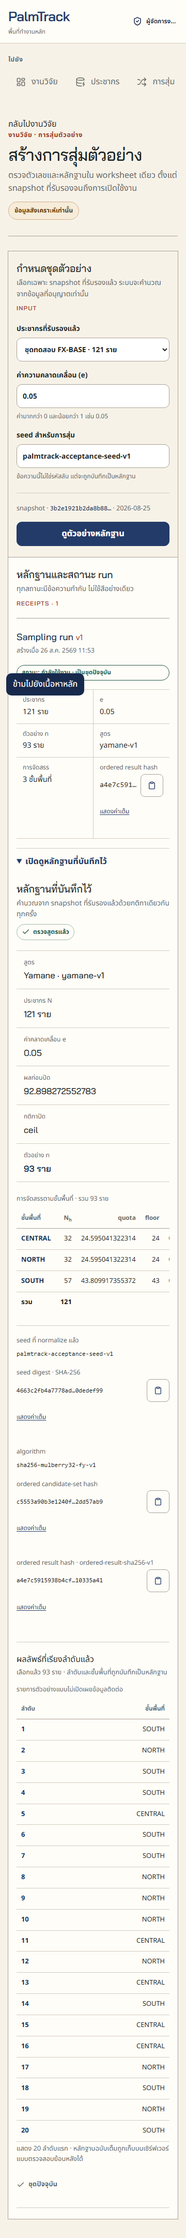
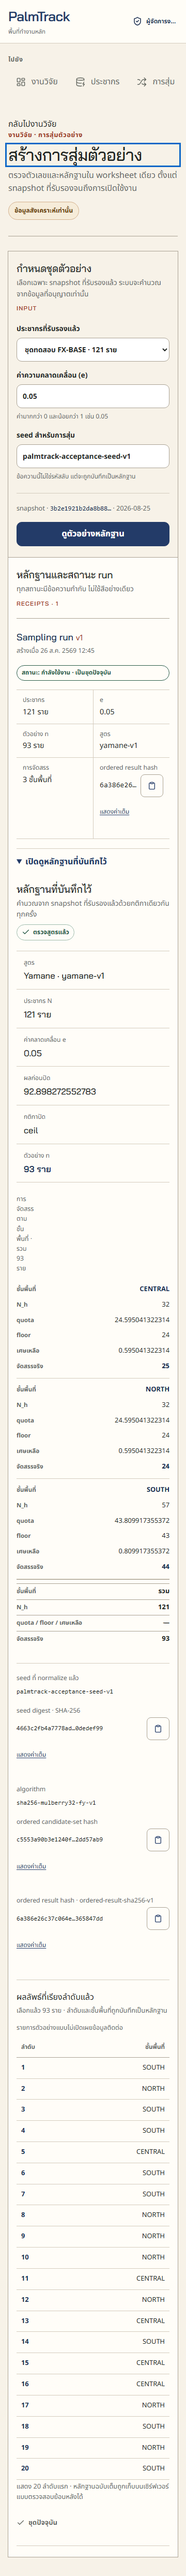
test: harden sampling acceptance evidence

diff --git a/e2e/sampling.spec.ts b/e2e/sampling.spec.ts
@@ -23,28 +23,86 @@ test.describe("sampling acceptance", () => {
 
     await page.getByRole("button", { name: "บันทึกฉบับร่าง" }).click();
     await expect(page.getByText("บันทึกฉบับร่างแล้ว · รอการล็อก")).toBeVisible();
+    const draftReceipt = page.getByTestId("sampling-run-receipt").filter({ has: page.locator('[data-status="draft"]') }).last();
+    const createdRunId = await draftReceipt.getAttribute("data-run-id");
+    expect(createdRunId).toMatch(/^[0-9a-f-]{36}$/iu);
+    const createdReceipt = page.locator(`[data-testid="sampling-run-receipt"][data-run-id="${createdRunId}"]`);
 
-    await page.getByRole("button", { name: "ล็อกหลักฐาน" }).click();
+    await createdReceipt.getByRole("button", { name: "ล็อกหลักฐาน" }).click();
     const lockDialog = page.getByRole("dialog", { name: "ยืนยันการล็อกหลักฐาน" });
     await expect(lockDialog).toBeVisible();
     await expect(lockDialog.getByRole("button", { name: "กลับไปตรวจสอบ" })).toBeFocused();
     await lockDialog.getByRole("button", { name: "ล็อกหลักฐาน" }).click();
     await expect(page.getByText("ล็อกหลักฐานสำเร็จ · run รอการเปิดใช้งาน")).toBeVisible();
-    await expect(page.getByText("สถานะ: ล็อกแล้ว · แก้ไขไม่ได้")).toBeVisible();
+    await expect(createdReceipt.locator('[data-status="locked"]')).toBeVisible();
 
-    await page.getByRole("button", { name: "เปิดใช้งาน" }).click();
+    await createdReceipt.getByRole("button", { name: "เปิดใช้งาน" }).click();
     const activateDialog = page.getByRole("dialog", { name: "ยืนยันการเปิดใช้งาน" });
     await expect(activateDialog).toBeVisible();
     await expect(activateDialog.getByRole("button", { name: "กลับไปตรวจสอบ" })).toBeFocused();
     await activateDialog.getByRole("button", { name: "เปิดใช้งาน" }).click();
     await expect(page.getByText("เปิดใช้งานสำเร็จ · run นี้เป็นชุดปัจจุบัน")).toBeVisible();
-    await expect(page.getByText("สถานะ: กำลังใช้งาน · เป็นชุดปัจจุบัน")).toBeVisible();
+    await expect(createdReceipt.locator('[data-status="active"]')).toBeVisible();
+
+    const evaluatorContext = await page.context().browser()!.newContext({ viewport: page.viewportSize() });
+    const evaluatorPage = await evaluatorContext.newPage();
+    await signInAs(evaluatorPage, "evaluator_readonly");
+    await evaluatorPage.goto("/app/research/sampling");
+    await expect(evaluatorPage.getByRole("heading", { name: "สร้างการสุ่มตัวอย่าง" })).toBeVisible();
+    await expect(evaluatorPage.getByText("บัญชีนี้อ่านใบเสร็จหลักฐานได้เท่านั้น · ไม่มีฟอร์มหรือปุ่มเปลี่ยนสถานะ")).toBeVisible();
+    const evaluatorReceipt = evaluatorPage.locator(`[data-testid="sampling-run-receipt"][data-run-id="${createdRunId}"]`);
+    await expect(evaluatorReceipt.locator('[data-status="active"]')).toBeVisible();
+    await expect(evaluatorReceipt).toContainText("121 ราย");
+    await expect(evaluatorReceipt).toContainText("93 ราย");
+    await expect(evaluatorPage.getByLabel("ประชากรที่รับรองแล้ว")).toHaveCount(0);
+    await expect(evaluatorPage.getByRole("button", { name: /ดูตัวอย่างหลักฐาน|บันทึกฉบับร่าง|ล็อกหลักฐาน|เปิดใช้งาน/iu })).toHaveCount(0);
+    await expect(evaluatorPage.getByText("หลักฐานที่บันทึกไว้")).toHaveCount(0);
+    await evaluatorContext.close();
 
     await page.reload();
-    await expect(page.getByText("สถานะ: กำลังใช้งาน · เป็นชุดปัจจุบัน")).toBeVisible();
-    await expect(page.getByRole("heading", { name: "หลักฐานที่บันทึกไว้" }).first()).toBeVisible();
+    const reloadedReceipt = page.locator(`[data-testid="sampling-run-receipt"][data-run-id="${createdRunId}"]`);
+    await expect(reloadedReceipt.locator('[data-status="active"]')).toBeVisible();
+    await expect(reloadedReceipt).toContainText("121 ราย");
+    await expect(reloadedReceipt).toContainText("0.05");
+    await expect(reloadedReceipt).toContainText("93 ราย");
+    await expect(reloadedReceipt).toContainText("palmtrack-acceptance-seed-v1");
+    await expect(reloadedReceipt).toContainText("sha256-mulberry32-fy-v1");
+    await expect(reloadedReceipt).toContainText("ordered result hash");
+    await expect(reloadedReceipt.getByRole("heading", { name: "หลักฐานที่บันทึกไว้" })).toBeVisible();
     await expect(page.getByText("ข้อมูลสังเคราะห์เท่านั้น")).toBeVisible();
     await expect(page.evaluate(() => document.documentElement.scrollWidth <= document.documentElement.clientWidth)).resolves.toBe(true);
+
+    const mainHeading = page.getByRole("heading", { name: "สร้างการสุ่มตัวอย่าง" });
+    await mainHeading.focus();
+    await expect(mainHeading).toBeFocused();
+    const skipLink = page.locator('a[href="#main-content"]');
+    const skipLinkBox = await skipLink.evaluate((element) => {
+      const rect = element.getBoundingClientRect();
+      const style = getComputedStyle(element);
+      return { bottom: rect.bottom, transform: style.transform, visibility: style.visibility, opacity: style.opacity, pointerEvents: style.pointerEvents };
+    });
+    expect(skipLinkBox.bottom).toBeLessThanOrEqual(0);
+    expect(skipLinkBox.transform).not.toBe("none");
+    expect(skipLinkBox.visibility).toBe("hidden");
+    expect(skipLinkBox.opacity).toBe("0");
+    expect(skipLinkBox.pointerEvents).toBe("none");
+
+    if (testInfo.project.name === "mobile") {
+      const allocationRegion = page.getByRole("region", { name: "ตารางการจัดสรรตามชั้นพื้นที่" }).last();
+      const firstAllocationRow = allocationRegion.locator("tbody tr").first();
+      await expect(firstAllocationRow.locator('[data-label="เศษเหลือ"]')).toBeVisible();
+      await expect(firstAllocationRow.locator('[data-label="จัดสรรจริง"]')).toBeVisible();
+      await expect(allocationRegion.locator('tfoot [data-label="จัดสรรจริง"]')).toHaveText("93");
+      const allocationLabels = await firstAllocationRow.locator("[data-label]").evaluateAll((cells) => cells.map((cell) => ({
+        label: getComputedStyle(cell, "::before").content.replace(/^"|"$/gu, ""),
+        right: cell.getBoundingClientRect().right,
+        left: cell.getBoundingClientRect().left,
+      })));
+      expect(allocationLabels.map(({ label }) => label)).toEqual(["ชั้นพื้นที่", "N_h", "quota", "floor", "เศษเหลือ", "จัดสรรจริง"]);
+      const viewportWidth = page.viewportSize()?.width ?? 360;
+      expect(allocationLabels.every(({ left, right }) => left >= 0 && right <= viewportWidth)).toBe(true);
+      await expect(allocationRegion).toHaveJSProperty("scrollWidth", await allocationRegion.evaluate((element) => element.clientWidth));
+    }
 
     if (process.env.PALMTRACK_E2E_CAPTURE_EVIDENCE === "1") {
       await page.screenshot({
@@ -64,15 +122,4 @@ test.describe("sampling acceptance", () => {
     });
   }
 
-  test("[E2E-03][RLS-09] evaluator receives aggregate-only sampling receipts", async ({ page }) => {
-    await signInAs(page, "evaluator_readonly");
-    await page.goto("/app/research/sampling");
-    await expect(page.getByRole("heading", { name: "สร้างการสุ่มตัวอย่าง" })).toBeVisible();
-    await expect(page.getByText("บัญชีนี้อ่านใบเสร็จหลักฐานได้เท่านั้น · ไม่มีฟอร์มหรือปุ่มเปลี่ยนสถานะ")).toBeVisible();
-    await expect(page.getByText("สถานะ: กำลังใช้งาน · เป็นชุดปัจจุบัน")).toBeVisible();
-    await expect(page.getByLabel("ประชากรที่รับรองแล้ว")).toHaveCount(0);
-    await expect(page.getByRole("button", { name: /ดูตัวอย่างหลักฐาน|บันทึกฉบับร่าง|ล็อกหลักฐาน|เปิดใช้งาน/iu })).toHaveCount(0);
-    await expect(page.getByText("หลักฐานที่บันทึกไว้")).toHaveCount(0);
-    await expect(page.evaluate(() => document.documentElement.scrollWidth <= document.documentElement.clientWidth)).resolves.toBe(true);
-  });
 });

diff --git a/src/modules/research/sampling/ui/sampling-workbench.tsx b/src/modules/research/sampling/ui/sampling-workbench.tsx
@@ -105,8 +105,8 @@ function EvidencePreview({ evidence, context = "preview", title, titleId = "samp
         <table className={styles.evidenceTable}>
           <caption>การจัดสรรตามชั้นพื้นที่ · รวม {number(evidence.targetN, 0)} ราย</caption>
           <thead><tr><th scope="col">ชั้นพื้นที่</th><th scope="col">N<sub>h</sub></th><th scope="col">quota</th><th scope="col">floor</th><th scope="col">เศษเหลือ</th><th scope="col">จัดสรรจริง</th></tr></thead>
-          <tbody>{evidence.allocationRows.map((row) => <tr key={row.stratumCode}><th scope="row">{row.stratumCode}</th><td>{number(row.eligibleCount, 0)}</td><td>{number(row.quota)}</td><td>{number(row.floorAllocation, 0)}</td><td>{number(row.remainder)}</td><td className={styles.emphasis}>{number(row.finalAllocation, 0)}</td></tr>)}</tbody>
-          <tfoot><tr><th scope="row">รวม</th><td>{number(evidence.populationSize, 0)}</td><td colSpan={3}>—</td><td>{number(evidence.targetN, 0)}</td></tr></tfoot>
+          <tbody>{evidence.allocationRows.map((row) => <tr key={row.stratumCode}><th scope="row" data-label="ชั้นพื้นที่">{row.stratumCode}</th><td data-label="N_h">{number(row.eligibleCount, 0)}</td><td data-label="quota">{number(row.quota)}</td><td data-label="floor">{number(row.floorAllocation, 0)}</td><td data-label="เศษเหลือ">{number(row.remainder)}</td><td data-label="จัดสรรจริง" className={styles.emphasis}>{number(row.finalAllocation, 0)}</td></tr>)}</tbody>
+          <tfoot><tr><th scope="row" data-label="ชั้นพื้นที่">รวม</th><td data-label="N_h">{number(evidence.populationSize, 0)}</td><td data-label="quota / floor / เศษเหลือ" colSpan={3}>—</td><td data-label="จัดสรรจริง">{number(evidence.targetN, 0)}</td></tr></tfoot>
         </table>
       </div>
       <dl className={styles.receiptGrid}>
@@ -185,7 +185,7 @@ function RunReceipt({ run, detail, isLatest, focusOnSuccess, onConfirm, disabled
     if (focusOnSuccess) receiptHeadingRef.current?.focus();
   }, [focusOnSuccess]);
   return (
-    <li className={styles.runReceipt}>
+    <li className={styles.runReceipt} data-testid="sampling-run-receipt" data-run-id={run.id} data-run-version={run.version}>
       <div className={styles.runHeader}><div><h3 ref={receiptHeadingRef} tabIndex={-1}>Sampling run <span>v{run.version}</span></h3><p>สร้างเมื่อ {thaiDate(run.createdAt)}</p></div><span className={`${styles.status} ${statusClass}`} data-status={run.status}>สถานะ: {statusLabels[run.status]}</span></div>
       <dl className={styles.runFacts}><div><dt>ประชากร</dt><dd>{number(run.populationSize, 0)} ราย</dd></div><div><dt>e</dt><dd>{number(run.marginOfError)}</dd></div><div><dt>ตัวอย่าง n</dt><dd>{number(run.targetN, 0)} ราย</dd></div><div><dt>สูตร</dt><dd>{run.formulaVersion}</dd></div><div><dt>การจัดสรร</dt><dd>{run.allocationEvidence.length} ชั้นพื้นที่</dd></div><div><dt>ordered result hash</dt><dd><DigestValue label="ordered result hash" value={run.orderedResultHash} /></dd></div></dl>
       {detailEvidence && <details className={styles.persistedEvidence} open={isLatest || run.status === "active"}><summary>เปิดดูหลักฐานที่บันทึกไว้</summary><EvidencePreview context="persisted" evidence={detailEvidence} titleId={`sampling-run-evidence-${run.id}`} /></details>}
@@ -255,7 +255,7 @@ export function SamplingWorkbench({ initialImports, initialRuns, initialRunDetai
   const capturePreviewInput = (event: FormEvent<HTMLFormElement>) => { setValidationAttempted(true); if (Object.keys(errors).length > 0) { event.preventDefault(); return; } setSubmittedPreview(snapshotFromForm(new FormData(event.currentTarget))); };
   return (
     <section className={styles.workbench} aria-labelledby="sampling-workbench-title">
-      <header className={styles.pageHeading}><div><p className={styles.path}>งานวิจัย · การสุ่มตัวอย่าง</p><h1 id="sampling-workbench-title">สร้างการสุ่มตัวอย่าง</h1><p className={styles.intro}>ตรวจตัวเลขและหลักฐานใน worksheet เดียว ตั้งแต่ snapshot ที่รับรองจนถึงการเปิดใช้งาน</p></div><span className={styles.syntheticBoundary}>ข้อมูลสังเคราะห์เท่านั้น</span></header>
+      <header className={styles.pageHeading}><div><p className={styles.path}>งานวิจัย · การสุ่มตัวอย่าง</p><h1 id="sampling-workbench-title" tabIndex={-1}>สร้างการสุ่มตัวอย่าง</h1><p className={styles.intro}>ตรวจตัวเลขและหลักฐานใน worksheet เดียว ตั้งแต่ snapshot ที่รับรองจนถึงการเปิดใช้งาน</p></div><span className={styles.syntheticBoundary}>ข้อมูลสังเคราะห์เท่านั้น</span></header>
       {canMutate && acceptedImports.length === 0 && <section className={styles.emptyState} aria-labelledby="sampling-empty-title"><h2 id="sampling-empty-title">ยังไม่มี snapshot ที่รับรอง</h2><p>ต้องยืนยัน snapshot จากงานประชากรก่อน จึงจะคำนวณหลักฐานการสุ่มได้</p><Link className={styles.secondaryButton} href="/app/research/population">ไปงานประชากร</Link></section>}
       {!canMutate && <p className={styles.readonlyIntro} role="status">บัญชีนี้อ่านใบเสร็จหลักฐานได้เท่านั้น · ไม่มีฟอร์มหรือปุ่มเปลี่ยนสถานะ</p>}
       <div className={styles.worksheet} aria-hidden={modalOpen ? "true" : undefined} inert={modalOpen}>

diff --git a/src/modules/research/sampling/ui/sampling-workbench.test.tsx b/src/modules/research/sampling/ui/sampling-workbench.test.tsx
@@ -125,6 +125,7 @@ describe("SamplingWorkbench", () => {
     renderWorkbench();
 
     expect(screen.getByRole("heading", { name: "สร้างการสุ่มตัวอย่าง" })).toBeVisible();
+    expect(screen.getByRole("heading", { name: "สร้างการสุ่มตัวอย่าง" })).toHaveAttribute("tabindex", "-1");
     expect(screen.getByText("ข้อมูลสังเคราะห์เท่านั้น")).toBeVisible();
     expect(screen.getByLabelText("ประชากรที่รับรองแล้ว")).toHaveValue(importId);
     expect(screen.getByLabelText(/ค่าความคลาดเคลื่อน \(e\)/u)).toHaveValue(0.05);
@@ -152,6 +153,29 @@ describe("SamplingWorkbench", () => {
     expect((submitted as FormData | null)?.get("populationImportId")).toBe(importId);
     expect((submitted as FormData | null)?.get("marginOfError")).toBe("0.05");
     expect((submitted as FormData | null)?.get("seedText")).toBe("palmtrack-acceptance-seed-v1");
+  });
+
+  it("exposes all allocation fields as labeled cells and a stable receipt hook", async () => {
+    renderWorkbench({
+      initialRuns: [initialRun],
+      previewAction: vi.fn(async (): Promise<SamplingPreviewState> => ({ status: "ready", evidence })),
+    });
+
+    const receipt = screen.getByTestId("sampling-run-receipt");
+    expect(receipt).toHaveAttribute("data-run-id", runId);
+    expect(receipt).toHaveAttribute("data-run-version", "1");
+
+    fireEvent.click(screen.getByRole("button", { name: "ดูตัวอย่างหลักฐาน" }));
+    await waitFor(() => expect(screen.getByRole("heading", { name: "ผลคำนวณเบื้องต้น" })).toBeVisible(), { timeout: 5000 });
+
+    const previewRegion = screen.getByRole("region", { name: "ผลคำนวณเบื้องต้น" });
+    const allocationTable = within(previewRegion)
+      .getByRole("region", { name: "ตารางการจัดสรรตามชั้นพื้นที่" })
+      .querySelector("table");
+    expect(allocationTable).not.toBeNull();
+    const firstRowLabels = Array.from(allocationTable!.querySelectorAll("tbody tr:first-child [data-label]"), (cell) => cell.getAttribute("data-label"));
+    expect(firstRowLabels).toEqual(["ชั้นพื้นที่", "N_h", "quota", "floor", "เศษเหลือ", "จัดสรรจริง"]);
+    expect(allocationTable!.querySelector('tfoot [data-label="จัดสรรจริง"]')).toHaveTextContent("93");
   });
 
   it("shows safe validation copy and keeps full digests available as text", async () => {

diff --git a/src/modules/research/sampling/ui/sampling-workbench.module.css b/src/modules/research/sampling/ui/sampling-workbench.module.css
@@ -136,6 +136,15 @@
   .formula > div { border-left: 0 !important; }
   .formula > div + div { border-top: 1px solid var(--line); }
   .receiptGrid { grid-template-columns: 1fr; }
+  .tableWrap { overflow-x: visible; }
+  .evidenceTable { display: block; width: 100%; }
+  .evidenceTable thead { position: absolute; width: 1px; height: 1px; padding: 0; margin: -1px; overflow: hidden; clip: rect(0, 0, 0, 0); white-space: nowrap; border: 0; }
+  .evidenceTable tbody, .evidenceTable tfoot { display: block; }
+  .evidenceTable tbody tr, .evidenceTable tfoot tr { display: grid; grid-template-columns: minmax(0, 1fr); padding: 7px 0; border-bottom: 1px solid var(--line); }
+  .evidenceTable tbody th, .evidenceTable tbody td, .evidenceTable tfoot th, .evidenceTable tfoot td { display: flex; width: 100%; min-width: 0; align-items: baseline; justify-content: space-between; gap: 14px; padding: 5px 0; border-bottom: 0; text-align: right !important; white-space: normal; overflow-wrap: anywhere; }
+  .evidenceTable tbody th::before, .evidenceTable tbody td::before, .evidenceTable tfoot th::before, .evidenceTable tfoot td::before { flex: 1 1 auto; color: var(--muted); content: attr(data-label); font-size: .72rem; font-weight: 700; text-align: left; }
+  .evidenceTable tfoot tr { border-top: 1px solid var(--line-strong); border-bottom: 0; }
+  .evidenceTable tfoot th, .evidenceTable tfoot td { font-weight: 750; }
   .runFacts { grid-template-columns: 1fr 1fr; }
   .runFacts > div { border-left: 0 !important; }
   .runFacts > div + div { border-left: 1px solid var(--line) !important; }

diff --git a/src/modules/identity/ui/protected-shell.module.css b/src/modules/identity/ui/protected-shell.module.css
@@ -13,10 +13,16 @@
   border-radius: 10px;
   background: var(--indigo-deep);
   color: white;
+  visibility: hidden;
+  opacity: 0;
+  pointer-events: none;
   transform: translateY(-180%);
 }
 
 .skipLink:focus-visible {
+  visibility: visible;
+  opacity: 1;
+  pointer-events: auto;
   transform: translateY(0);
 }
 

diff --git a/playwright.config.ts b/playwright.config.ts
@@ -20,7 +20,7 @@ const e2eEnvironment = Object.fromEntries(
 
 export default defineConfig({
   testDir: "./e2e",
-  testIgnore: "**/population-import.spec.ts",
+  testIgnore: ["**/population-import.spec.ts", "**/sampling.spec.ts"],
   fullyParallel: true,
   forbidOnly: true,
   retries: 0,

diff --git a/docs/TRACEABILITY_MATRIX.md b/docs/TRACEABILITY_MATRIX.md
@@ -62,10 +62,10 @@ Evidence นี้เป็น tracer-bullet progress ไม่ใช่ FR-02/V
 
 | Requirement | Implemented evidence in this increment | Status boundary |
 |---|---|---|
-| FR-03 | synthetic `FX-BASE` fixture with 121 eligible members across `NORTH`, `CENTRAL`, `SOUTH`; authenticated manager preview shows Yamane `N=121/e=0.05/n=93`, largest-remainder rows, normalized seed, algorithm and digest evidence; manager completes draft → locked → active and reloads the persisted receipt | focused local `e2e/sampling.spec.ts` passes in mobile and desktop projects; this task does not claim hosted migration or full unit/database/build verification |
-| NFR-01 | collector and farmer receive non-enumerating forbidden state; evaluator receives summary/aggregate receipt only and no mutation form or transition controls | focused local role negatives pass; this is not the complete V1 RLS negative matrix |
-| NFR-04 | persisted sampling receipt includes seed, candidate/result digest and ordered stratum evidence for the active run | focused E2E confirms the visible receipt after reload; deterministic unit/database evidence remains separately bounded |
-| NFR-05 | Thai authenticated sampling page captured at 360×800 and 1365×900 with visible synthetic-only boundary | [sampling screenshots](assets/sampling/README.md) and focused local browser run pass; field usability sign-off remains pending |
-| NFR-06 | manager confirmation dialogs receive focus, the primary journey completes, and both configured viewports have no horizontal overflow | focused local assertions pass; no axe scan was added to this sampling-only run |
+| FR-03 | synthetic `FX-BASE` fixture with 121 eligible members across `NORTH`, `CENTRAL`, `SOUTH`; authenticated manager preview shows Yamane `N=121/e=0.05/n=93`, largest-remainder rows, normalized seed, algorithm and digest evidence; manager completes draft → locked → active and reloads the created receipt | focused local `e2e/sampling.spec.ts` passes 6/6 across mobile and desktop projects, scoping lifecycle assertions by run ID and checking exact receipt values; this task does not claim hosted migration or full unit/database/build verification |
+| NFR-01 | collector and farmer receive non-enumerating forbidden state; evaluator receives the created run's summary/aggregate receipt only and no mutation form or transition controls | focused local role negatives pass independently and evaluator checks run inside the manager lifecycle; this is not the complete V1 RLS negative matrix |
+| NFR-04 | persisted sampling receipt includes seed, candidate/result digest and ordered stratum evidence for the active run | focused E2E confirms exact `N`, `e`, `n`, seed, algorithm, digest and active status after reload; deterministic unit/database evidence remains separately bounded |
+| NFR-05 | Thai authenticated sampling page captured at 360×800 and 1365×900 with visible synthetic-only boundary and six labeled mobile allocation fields | [sampling screenshots](assets/sampling/README.md) and focused local browser run pass; field usability sign-off remains pending |
+| NFR-06 | manager confirmation dialogs receive focus, the primary journey completes, both configured viewports have no document/table horizontal overflow, and the unfocused skip link is hidden after heading focus | focused local assertions pass; no axe scan was added to this sampling-only run |
 
 หลักฐานนี้เป็น local synthetic acceptance evidence ของ sampling slice ไม่ใช่ V1 acceptance sign-off และไม่อนุญาตให้สรุป hosted migration, real-data readiness หรือ unexecuted full-suite checks

diff --git a/docs/assets/sampling/README.md b/docs/assets/sampling/README.md
@@ -9,14 +9,14 @@
 - Margin of error: `e=0.05`
 - Yamane result: `N=121`, unrounded `92.898272552783`, `ceil n=93`
 - Strata: `NORTH=32`, `CENTRAL=32`, `SOUTH=57`; largest-remainder allocation totals 93
-- The authenticated manager journey imports/accepts the snapshot, previews, creates a draft, locks, activates, reloads the receipt, and checks focus/no-overflow and role negatives.
+- The authenticated manager journey imports/accepts the snapshot, previews, creates a draft, locks, activates, reloads the created receipt, and verifies exact `N=121`, `e=0.05`, `n=93`, seed, algorithm, digest and active status. The same lifecycle checks evaluator aggregate-only access; collector/farmer negatives are independent tests.
 
 ## Captures
 
 - [Desktop 1365×900](desktop.png)
 - [Mobile 360×800](mobile.png)
 
-ภาพเป็น full-page captures ของหน้า sampling ที่ผ่านการยืนยันตัวตนจริงใน local E2E; ป้าย `ข้อมูลสังเคราะห์เท่านั้น` ต้องมองเห็นในทั้งสองภาพ ภาพ desktop แสดง receipt สังเคราะห์ก่อนหน้าด้วยเพราะ Playwright projects ใช้ local reset เดียวกัน ส่วนภาพ mobile เป็น receipt แรกของ run
+ภาพเป็น full-page captures ของหน้า sampling ที่ผ่านการยืนยันตัวตนจริงใน local E2E; ป้าย `ข้อมูลสังเคราะห์เท่านั้น` ต้องมองเห็นในทั้งสองภาพ และภาพถูกบันทึกหลังย้าย focus ไปยังหัวข้อหลักเพื่อซ่อน skip link ภาพ mobile แสดง allocation ทั้งหกฟิลด์ด้วย row labels แบบ responsive พร้อม `เศษเหลือ` และ `จัดสรรจริง = 93` โดยไม่มี table overflow ภาพ desktop แสดง receipt สังเคราะห์ก่อนหน้าด้วยเพราะ Playwright projects ใช้ local reset เดียวกัน ส่วนภาพ mobile เป็น receipt แรกของ run
 
 ## Reproduction
 

diff --git a/LOG.md b/LOG.md
@@ -709,3 +709,17 @@ Severity ใช้ `low | medium | high | critical`; status ใช้ `open | mi
 | Reproduction / evidence | Focused sampling E2E preview reached `N=121`, `n=93`; direct local RPC diagnostics identified the allocation-formula check. A 32/32/57 synthetic stratum distribution keeps both quota and remainder errors below tolerance and the clean 8-test sampling run passes |
 | Resolution / status | `resolved` — use `NORTH=32`, `CENTRAL=32`, `SOUTH=57` in the acceptance fixture; no runtime or migration change was required |
 | Related commit | `test: verify sampling workflow end to end` |
+
+### DEV-20260826-051 — Sampling E2E independence and skip-link capture boundary
+
+| Field | Value |
+|---|---|
+| UTC timestamp | `2026-08-26T05:47:32Z` |
+| Environment | Supabase local authenticated sampling E2E review rerun |
+| Severity | low |
+| Component | sampling acceptance test setup and authenticated shell evidence capture |
+| Error code / sanitized message | `SAMPLING_E2E_SHARED_STATE` / `SKIP_LINK_CAPTURE_VISIBILITY` — evaluator-only execution found no active run after reset, and full-page capture retained a transform-hidden fixed skip link |
+| Impact | Review checks were not independently reproducible and evidence images contained a non-focused skip-link artifact; no hosted database or real-person data was involved |
+| Reproduction / evidence | evaluator grep after one local reset failed before a manager lifecycle; post-reload full-page captures showed the fixed link although heading focus had moved |
+| Resolution / status | `resolved` — scope lifecycle and evaluator checks to the created run within one manager test, add a fresh evaluator context, and hide skip links with visibility/opacity/pointer guards; focused local sampling rerun passed 6/6 |
+| Related commit | follow-up Task 6 acceptance review commit |

diff --git a/docs/INDEX.md b/docs/INDEX.md
@@ -28,7 +28,7 @@
 | [Population import design](superpowers/specs/2026-08-25-palmtrack-population-import-design.md) | Approved for implementation | research_manager | FR-02 synthetic CSV validation, atomic import, immutable accepted snapshot, RLS/audit และ production UI |
 | [Population import plan](superpowers/plans/2026-08-25-palmtrack-population-import.md) | Approved for execution | admin | แผน TDD สำหรับ domain parser, local SQL/RLS/audit, server action, production UI และ local authenticated evidence |
 | [Population import visual evidence](assets/population-import/README.md) | Verified local evidence | research_manager | ภาพ accepted synthetic snapshot ที่ 360px/desktop พร้อม fixture digest และขอบเขต local-only |
-| [Sampling acceptance visual evidence](assets/sampling/README.md) | Verified local evidence | research_manager | ภาพ authenticated sampling receipt ที่ 360px/desktop พร้อม FX-BASE 121-member fixture, seed, `n=93`, lifecycle และ role-evidence boundary |
+| [Sampling acceptance visual evidence](assets/sampling/README.md) | Verified local evidence | research_manager | ภาพ authenticated sampling receipt ที่ 360px/desktop พร้อม FX-BASE 121-member fixture, exact `N=121/e=0.05/n=93` receipt, seed/algorithm/digest, lifecycle, responsive six-field allocation และ role-evidence boundary |
 
 ไฟล์ระดับ root: [product context](../PRODUCT.md), [implemented design system](../DESIGN.md), [project overview](../README.md), [contribution instructions](../AGENTS.md) และ [sanitized development error/incident ledger](../LOG.md) (ไม่ใช่ application runtime log)
 
